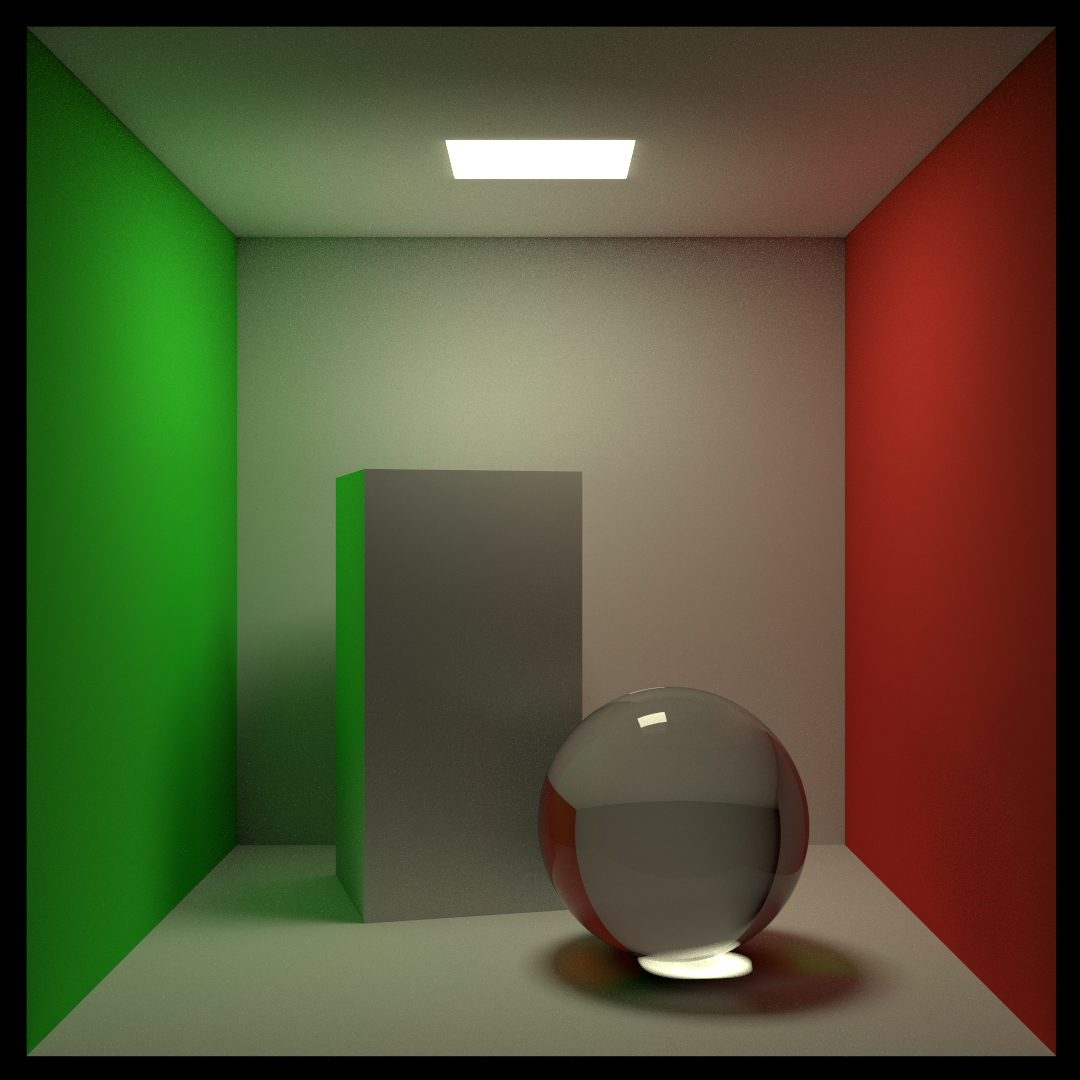
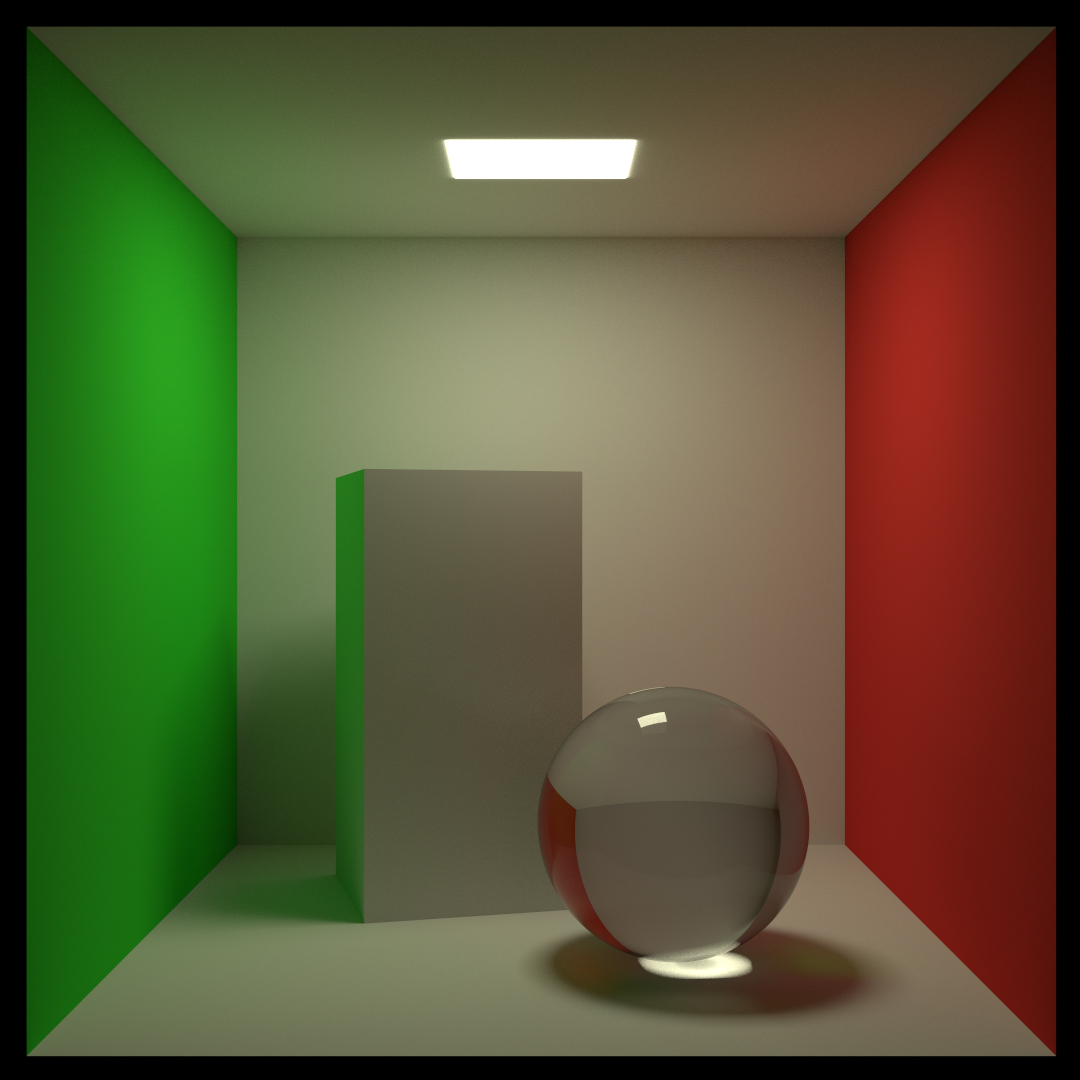
Update rendered result

diff --git a/examples/rayTracingRestOfYourLife/app.cpp b/examples/rayTracingRestOfYourLife/app.cpp
@@ -424,10 +424,10 @@ void App::draw()
 
     ImGui_ImplOpenGL3_RenderDrawData(ImGui::GetDrawData());
 
-    // if (params.frame == 100) {
-    //     result_bitmap.write(pgPathJoin(pgAppDir(), "pt_debug.jpg"));
-    //     pgExit();
-    // }
+    if (params.frame == 4096) {
+        result_bitmap.write(pgPathJoin(pgAppDir(), "rtRestOfYourLife.jpg"));
+        pgExit();
+    }
 }
 
 // ----------------------------------------------------------------
